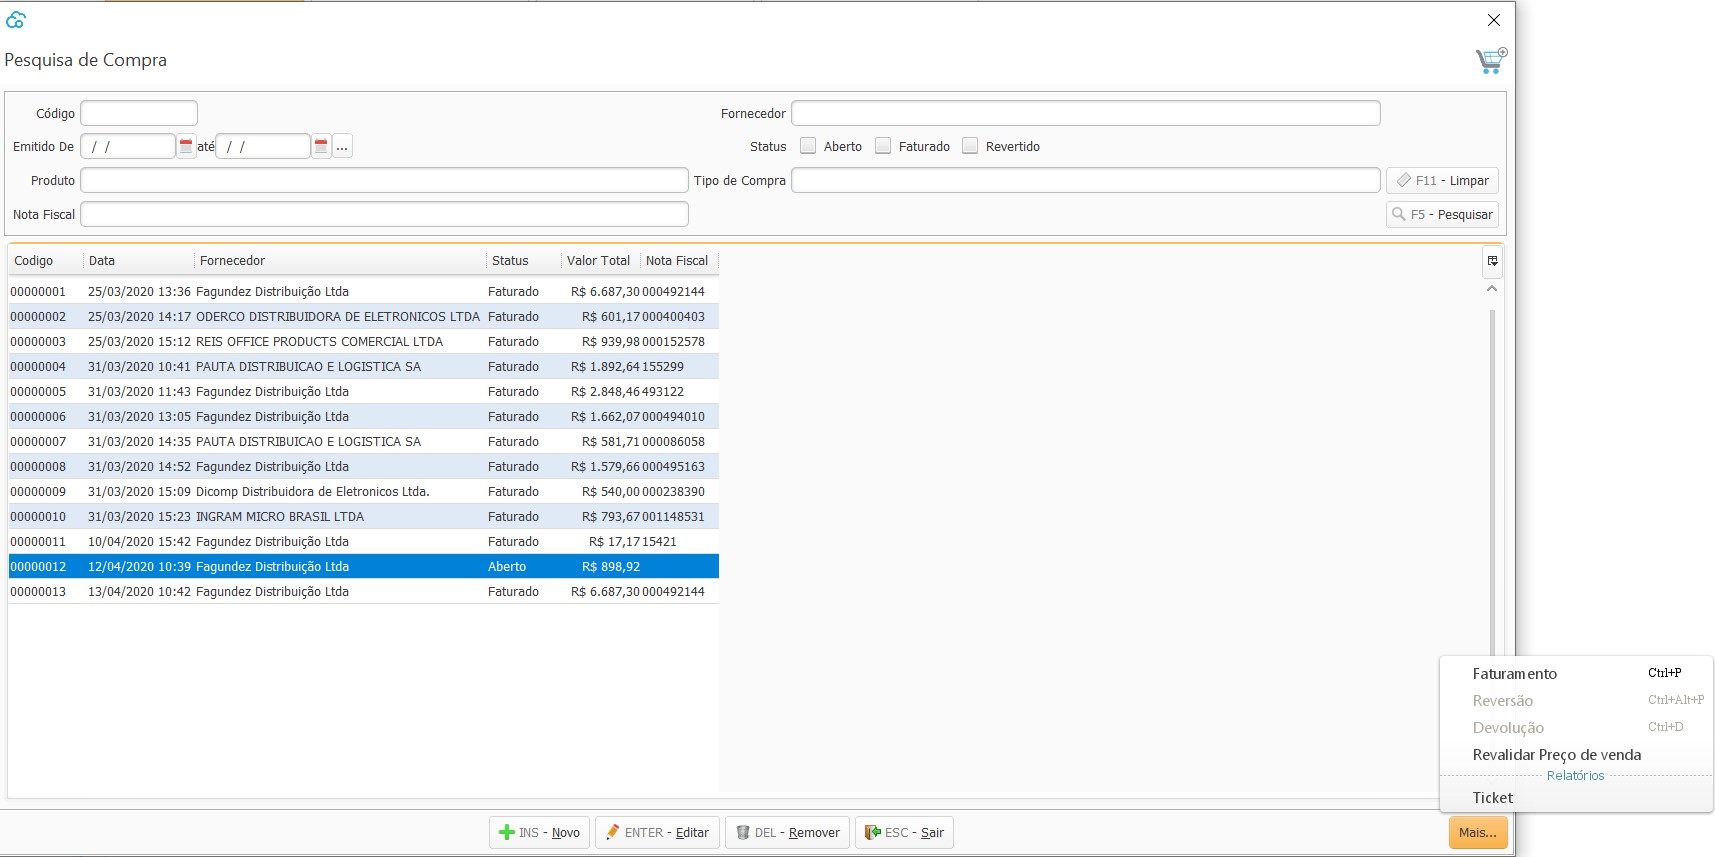
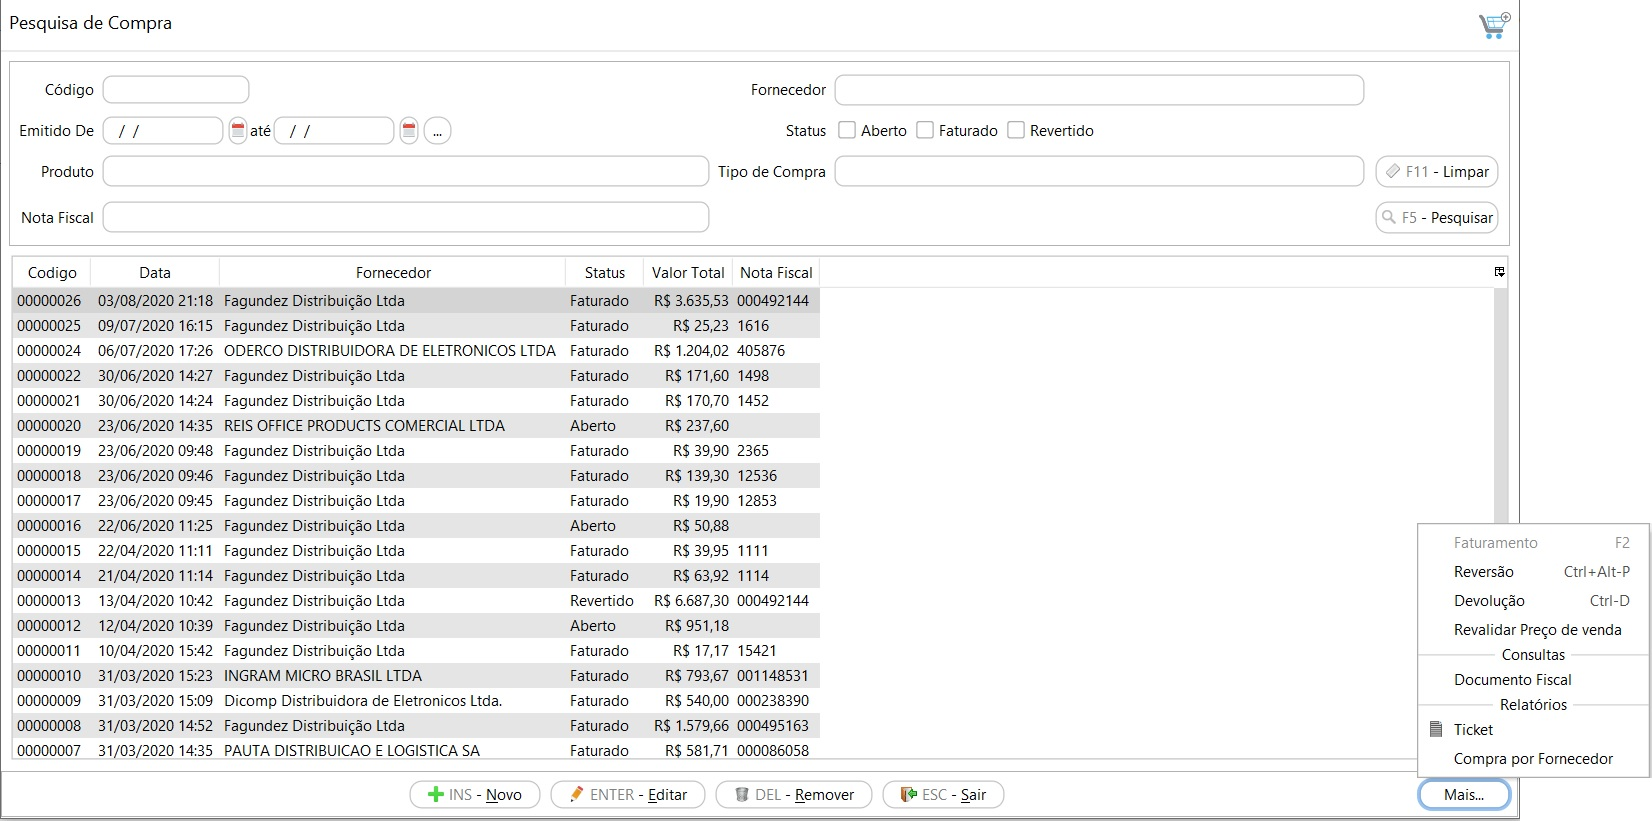
index
index

Changed region(s): [[0.0, 0.0, 1.0, 1.0], [0.957, 0.6395, 1.0, 0.7613]]

diff --git a/docs/compras_compra.md b/docs/compras_compra.md
@@ -10,15 +10,25 @@
 
 {: #pesquisa}
 
-#### Pesquisa de Compra
+### Pesquisa de Compra
 
-Nesta tela estão disponíveis todas as compras cadastradas, as faturadas e as em aberto.
+Nesta tela estão disponíveis todas as compras cadastradas, faturadas e as em aberto. 
 
-Através do botão mais pode-se acessar os menus relacionados com a compra. 
+#### Status
 
-A opção Faturamento só fica disponível para as Compras com status Aberto.
+- Aberto- Compras já iniciadas mas não faturadas. Permitem edição.
+- Faturado - Compras já faturadas. Não permitem edição.
+- Revertido - Compras já faturadas e que foram estornadas. Não permitem edição.
 
-As opções Reversão, Devolução e o Ticket só ficam disponíveis para as Compras com status Faturado.
+### Processos
+
+Através do botão `Mais` ou com o botão inverso do mouse se acessa todos os processos relacionados a Compra e também a impressão dos Tickets e relatórios.
+
+O menu [Devolução](compras_devolucao_compra.md#devolucaocompra) é habilitado somente se selecionado uma Compra com status Faturado.
+
+O menu [Reversão](compras_compra.md#reversao) é habilitado somente se selecionado uma Compra com status Faturado.
+
+O menu [Faturamento](vendas_venda.md#faturamento) é habilitado somente se selecionado uma Compra com status Aberto.
 
 ![](images/compras_compra_pesquisa.jpg)
 
@@ -200,4 +210,4 @@ O ticket de compra pode ser impresso para compras Faturadas.
 
 
 
-[Voltar](compras.md#compras)
+[Voltar](compras.md)

diff --git a/docs/index.md b/docs/index.md
@@ -6,6 +6,8 @@ Aqui você vai encontrar o detalhamento de cada tela e processo do sistema,  dic
 
 <font color="black" size="4em"><b>Diretório de documentos </b></font>
 
+<br/>
+
 |[Dicas de usabilidade](dicas.md)
 
 |[Sistema](sistema.md)
@@ -26,7 +28,7 @@ Aqui você vai encontrar o detalhamento de cada tela e processo do sistema,  dic
 
 |[Vendas](vendas.md)
 
-
+<br/>
 
 <font color="black" size="4em"> <b>Perguntas Frequentes</b></font>
 

diff --git a/docs/compras_devolucao_compra.md b/docs/compras_devolucao_compra.md
@@ -106,5 +106,4 @@ As informações de referência fiscal são obrigatórias para o faturamento da 
 
 
 
-
-
+[Voltar](compras.md)
